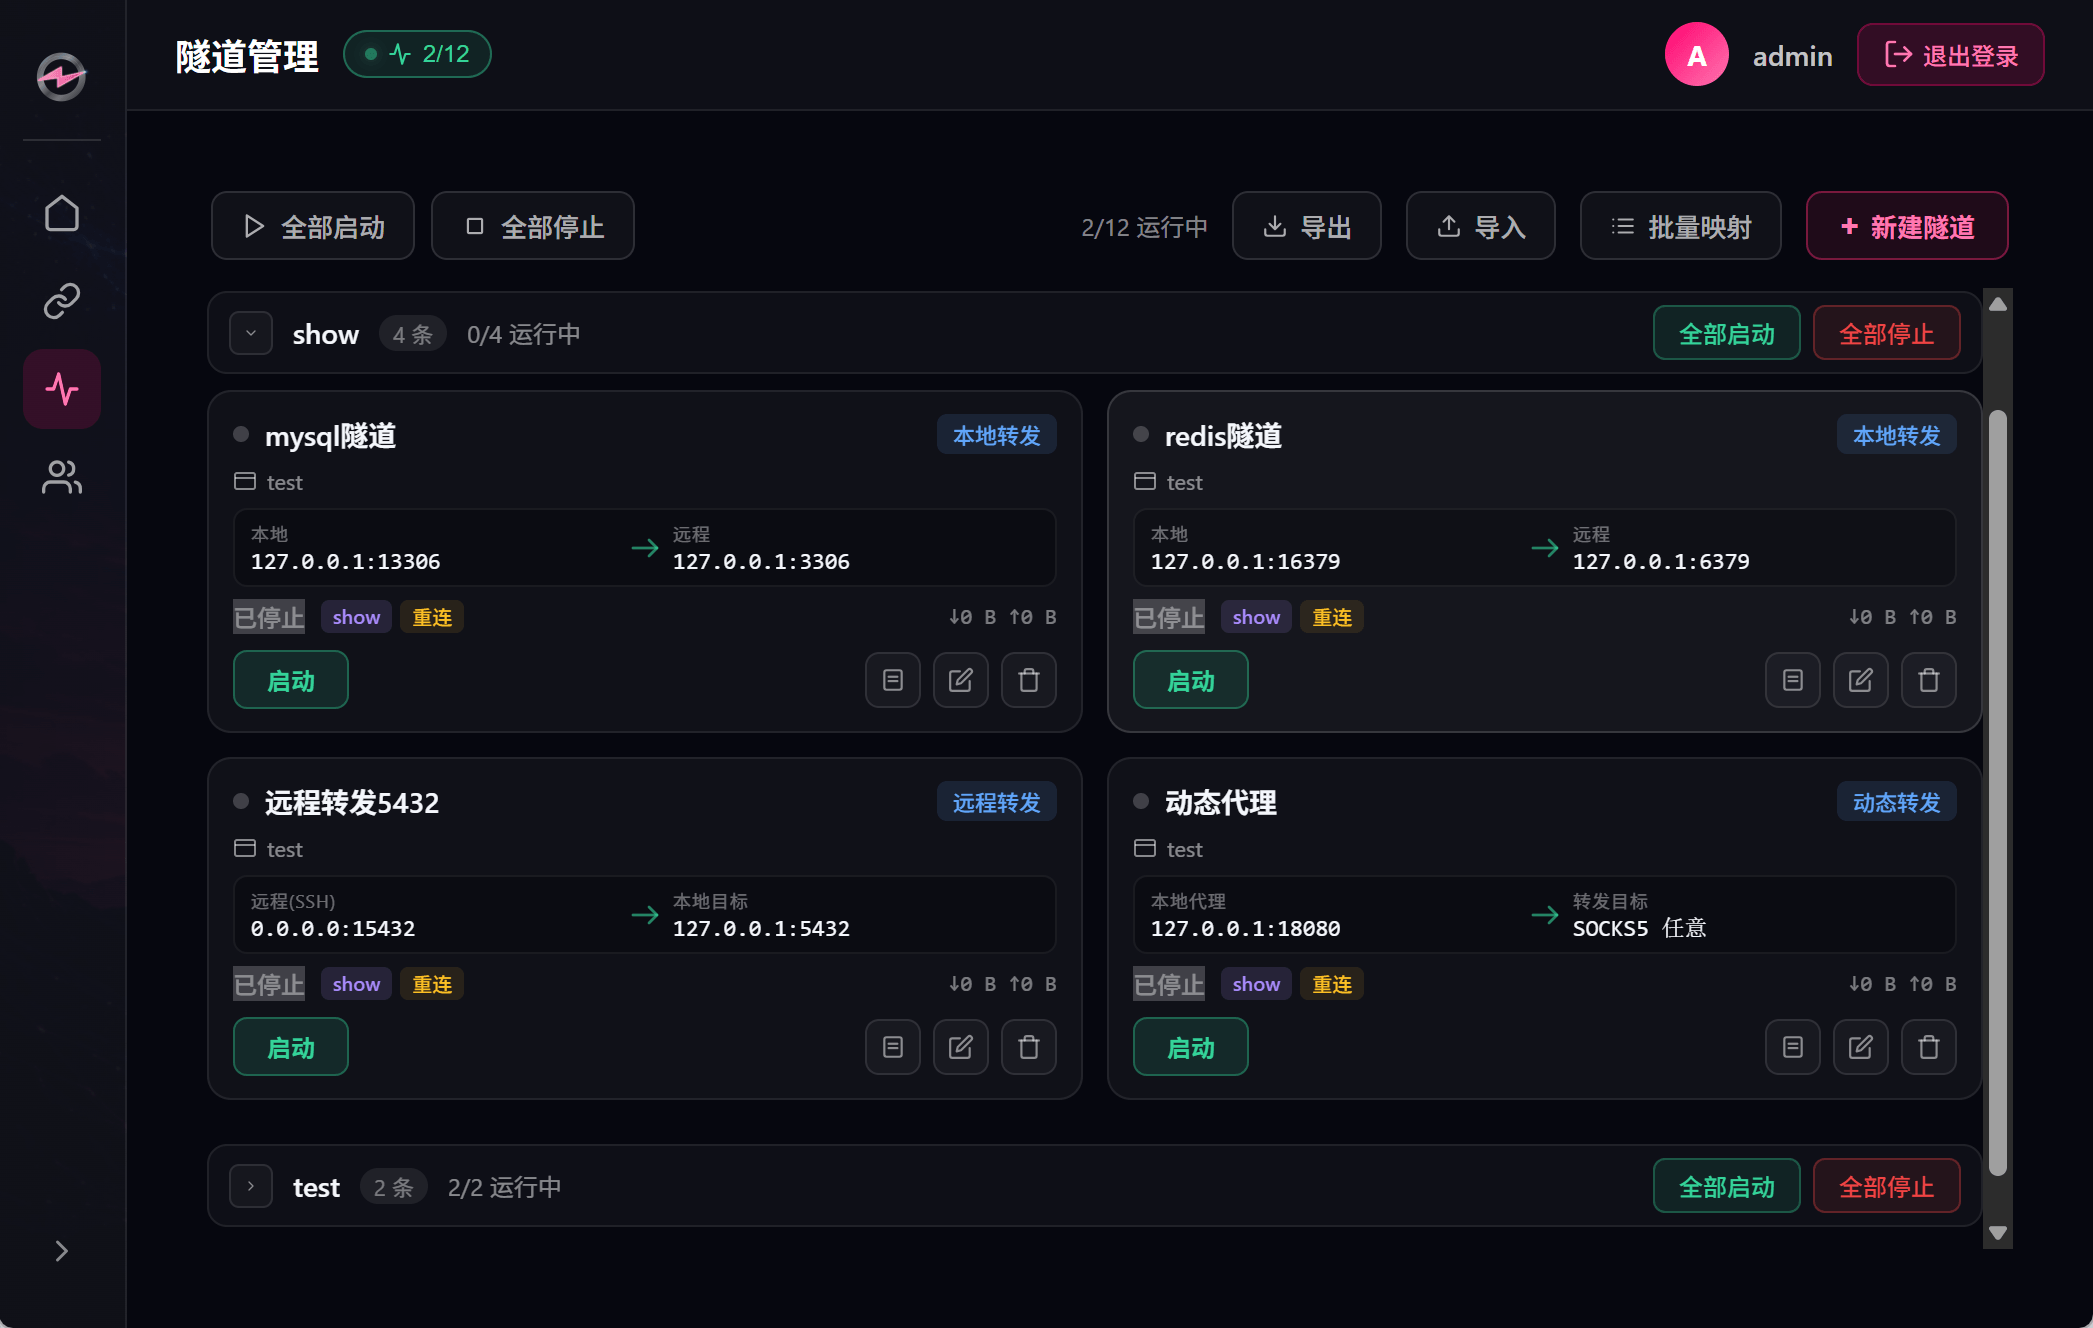
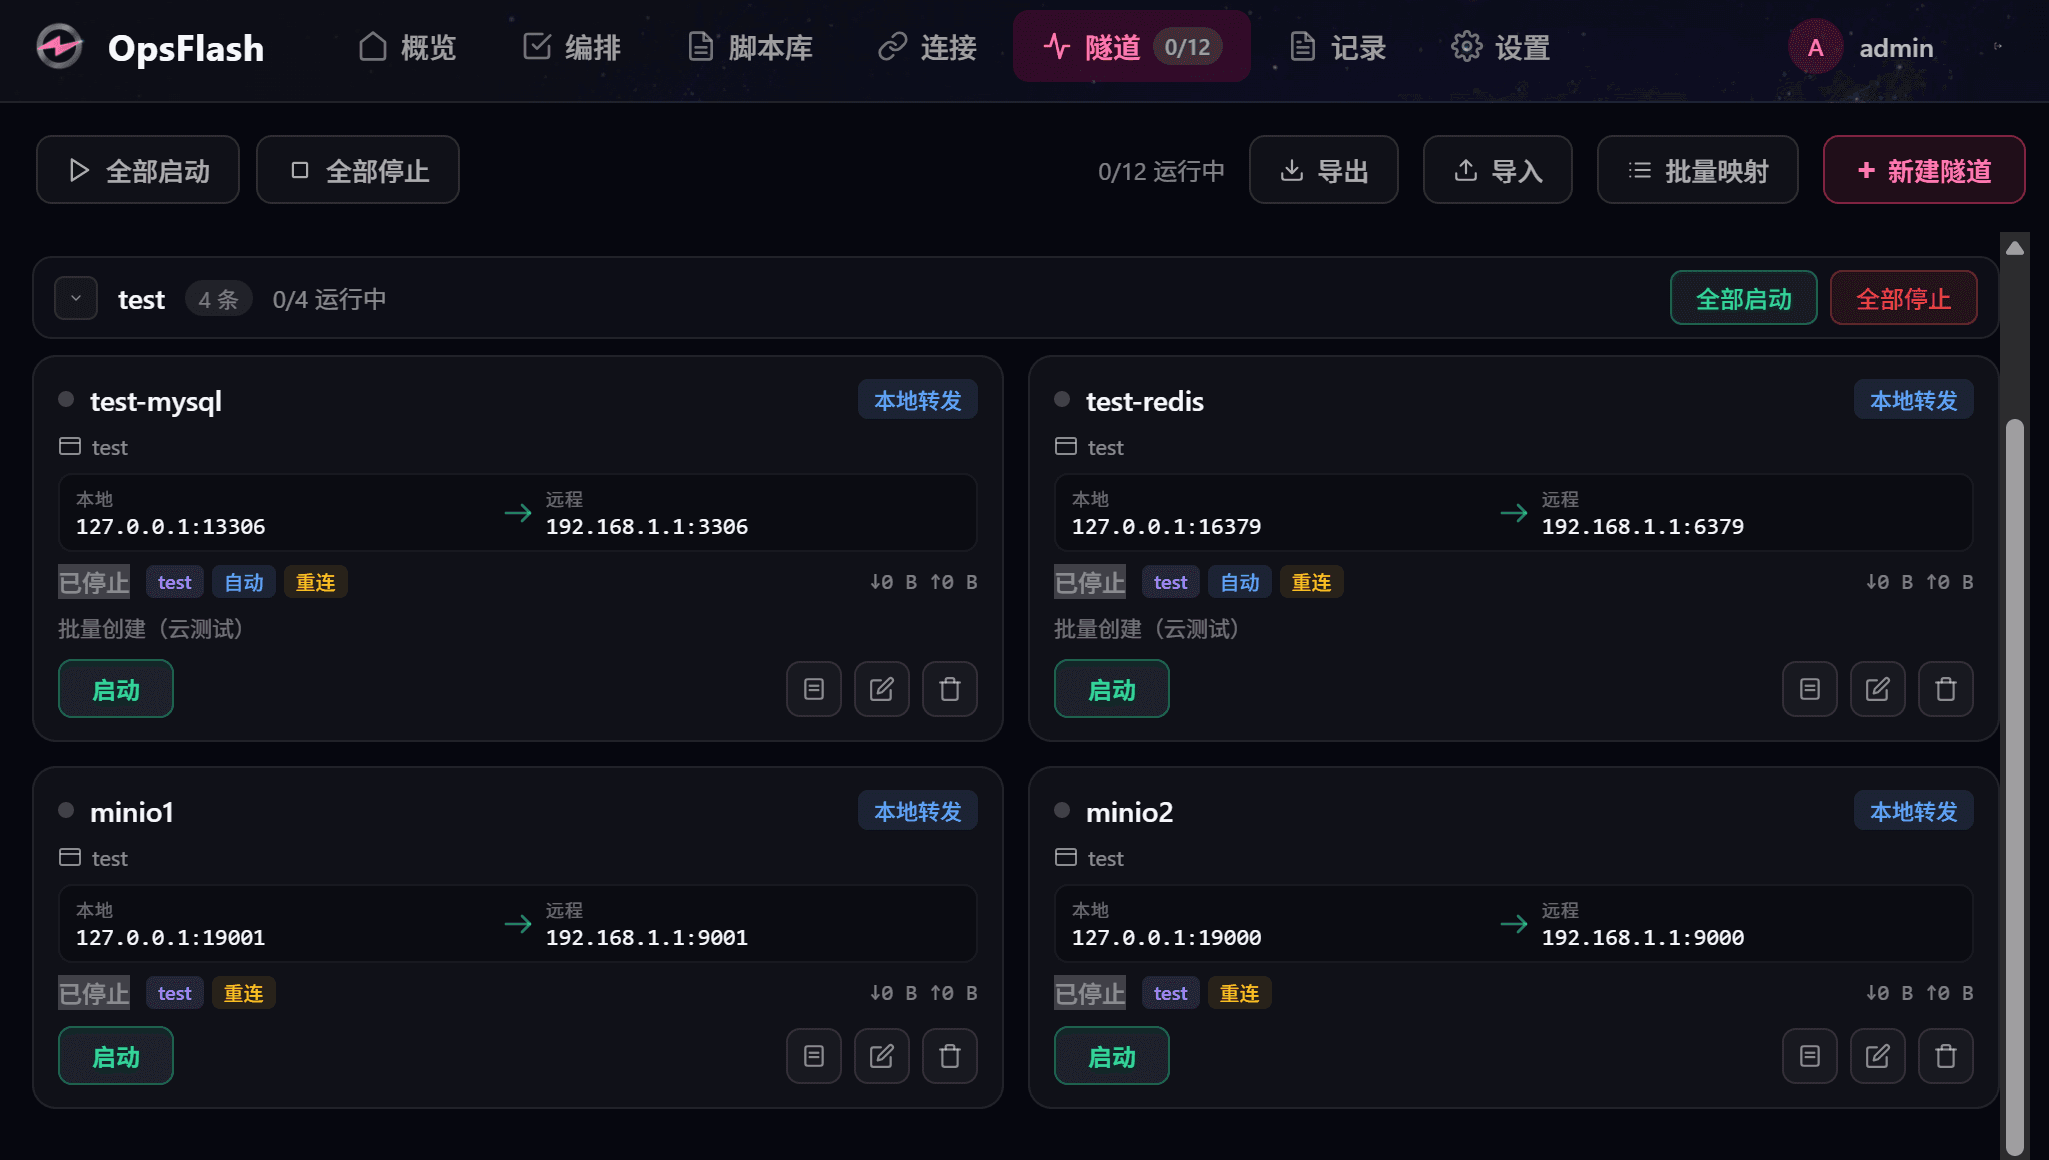
docs:update rreview image

diff --git a/README.md b/README.md
@@ -116,10 +116,16 @@ task build:server   # 或 task run:server
 
 ## 软件截图
 
-连接管理
+概览
+![opsflash03](./docs/images/opsflash03.png)
+脚本库
+![opsflash04](./docs/images/opsflash04.png)
+连接
 ![opsflash01](./docs/images/opsflash01.png)
-隧道管理
+隧道
 ![opsflash02](./docs/images/opsflash02.png)
+记录
+![opsflash05](./docs/images/opsflash05.png)
 
 ## 开源协议
 
